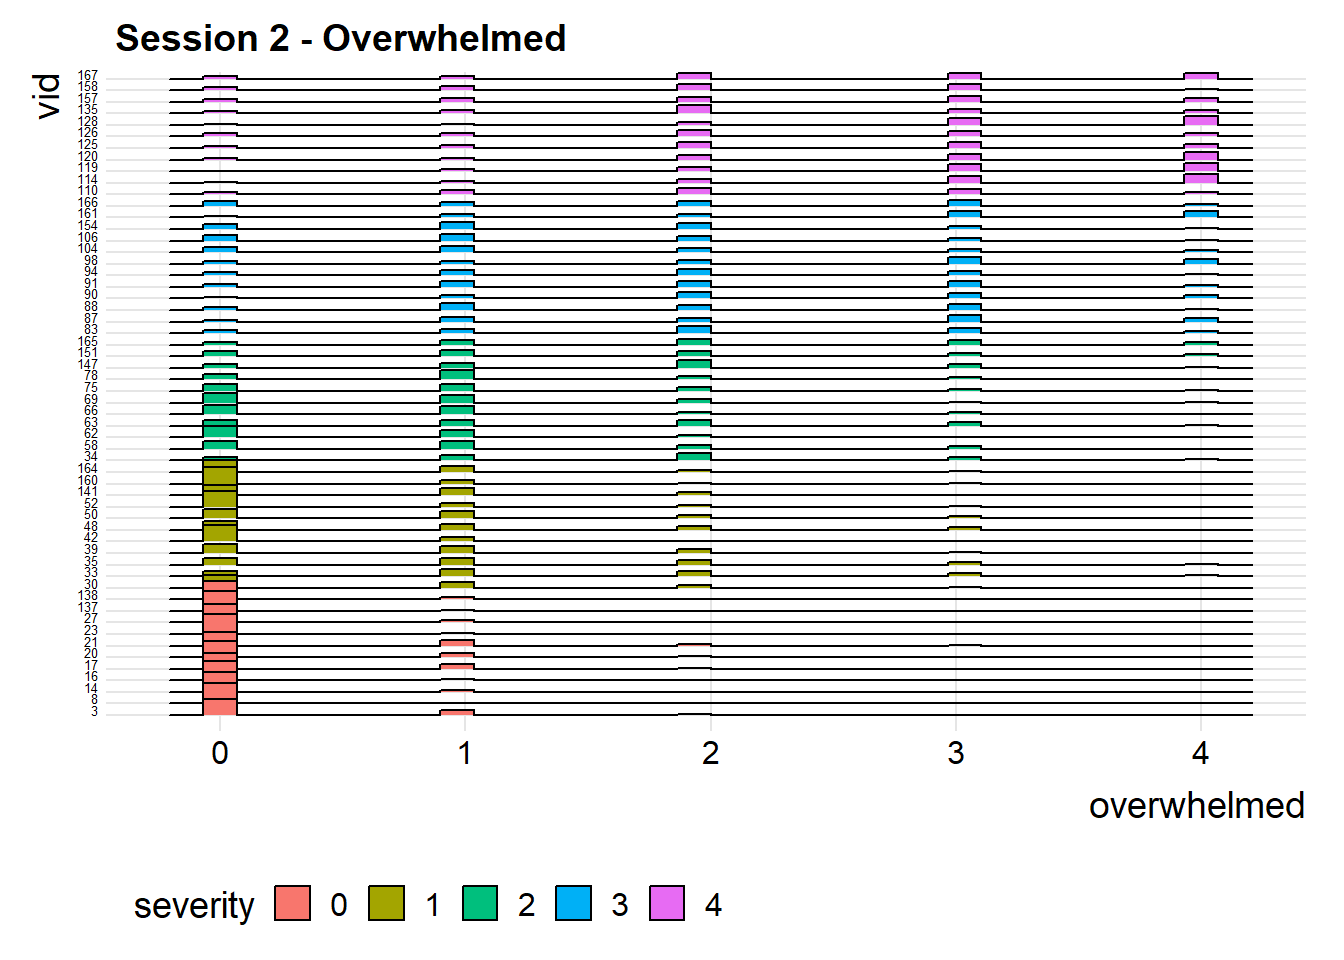
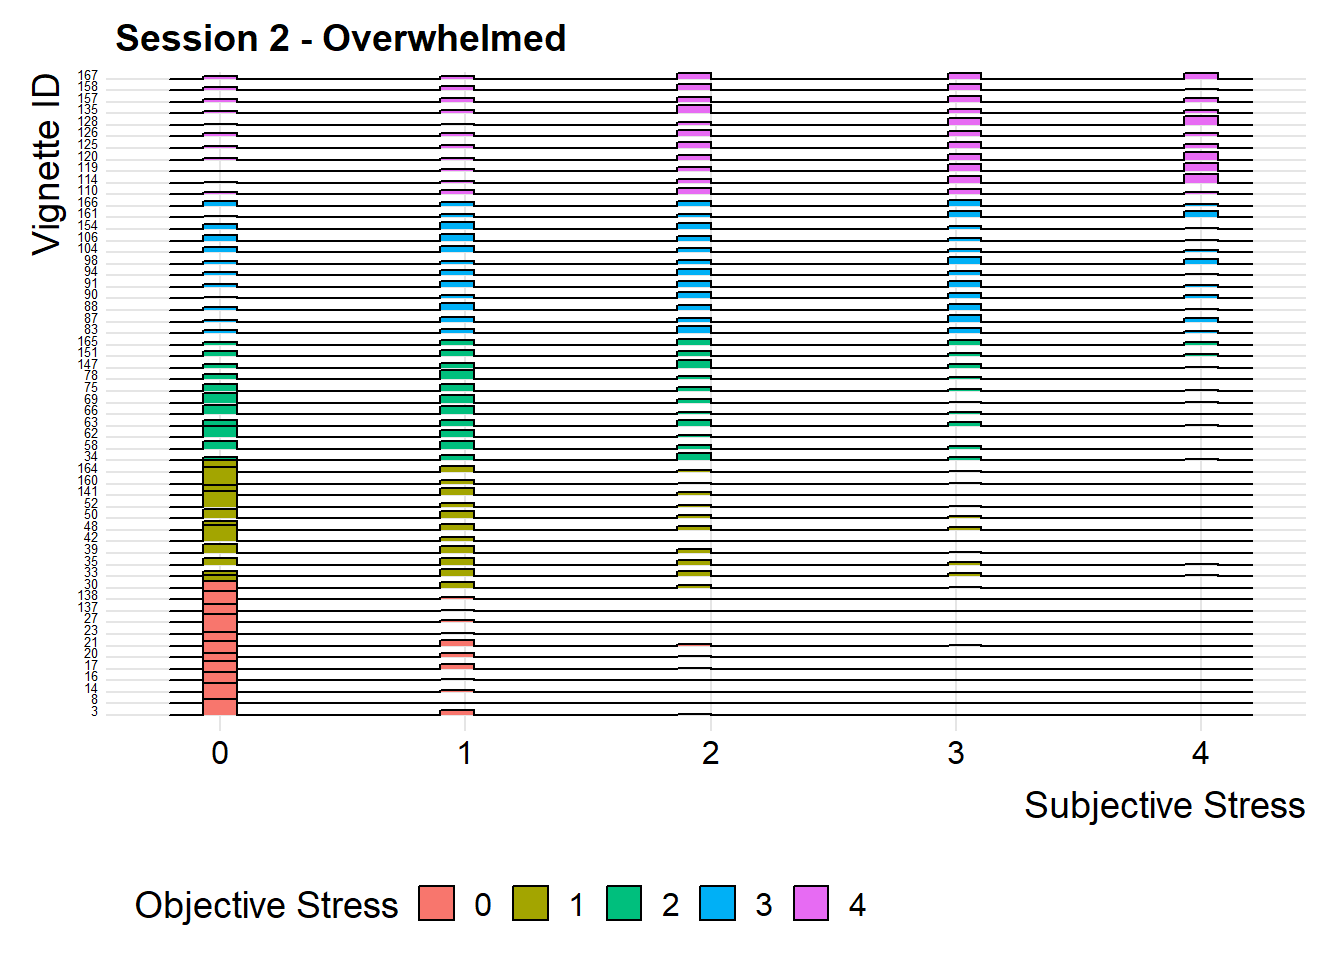
update12/17

Changed region(s): [[0.0938, 0.9062, 0.6562, 0.9688], [0.75, 0.8125, 0.9688, 0.875], [0.0, 0.0625, 0.0625, 0.25]]

diff --git a/docs/results.html b/docs/results.html
@@ -79,7 +79,8 @@
 <li class="chapter" data-level="5.1" data-path="results.html"><a href="results.html#examination-on-objective-coder-ratings"><i class="fa fa-check"></i><b>5.1</b> Examination on Objective Coder Ratings</a></li>
 <li class="chapter" data-level="5.2" data-path="results.html"><a href="results.html#stress-levels-on-different-objective-coder-ratings-severity-levels"><i class="fa fa-check"></i><b>5.2</b> Stress Levels on Different Objective Coder Ratings (Severity Levels)</a></li>
 <li class="chapter" data-level="5.3" data-path="results.html"><a href="results.html#exploration-on-individual-factors"><i class="fa fa-check"></i><b>5.3</b> Exploration on Individual Factors</a></li>
-<li class="chapter" data-level="5.4" data-path="results.html"><a href="results.html#potential-vignettes-outliers"><i class="fa fa-check"></i><b>5.4</b> Potential Vignettes Outliers</a></li>
+<li class="chapter" data-level="5.4" data-path="results.html"><a href="results.html#investigation-on-the-relationship-between-number-of-siblings-and-subjective-stress"><i class="fa fa-check"></i><b>5.4</b> Investigation on the relationship between Number of Siblings and Subjective Stress</a></li>
+<li class="chapter" data-level="5.5" data-path="results.html"><a href="results.html#potential-vignettes-outliers"><i class="fa fa-check"></i><b>5.5</b> Potential Vignettes Outliers</a></li>
 </ul></li>
 <li class="chapter" data-level="6" data-path="interactive-component.html"><a href="interactive-component.html"><i class="fa fa-check"></i><b>6</b> Interactive component</a></li>
 <li class="chapter" data-level="7" data-path="conclusion.html"><a href="conclusion.html"><i class="fa fa-check"></i><b>7</b> Conclusion</a></li>
@@ -109,32 +110,39 @@
 <p>One major question of interest in this study was whether participant’s self-reports of how stressed they would be in each scenario corresponds with objective coder ratings of the severity of those scenarios, as coded by the Daily Inventory of Stressful Events (DISE) scheme (Midus, 1994). A priori, we expected that participant ratings of the stressfulness of the events would correspond with the objective coders’ ratings of the severity of the events. Both the subjective responses and the objective codes ranged from 0=not at all to 4=extremely.</p>
 <p>We were also interested in investing whether variance in subjective reports depended on the objective codes; for example, whether scenarios in the 2-3 range in objective severity were more variable while those in the high and low ranges of severity exhibited less variability. To explore these ideas, we build six histogram-style ridge plots, three for each session (session 1 or session 2 of the study) and one for each measure of stress (how ‘stressed’ did you feel? how ‘overwhelmed’ did you feel? and an aggregate score that is the mean of how ‘stressed’ and ‘overwhelmed’ participants felt).</p>
 <p>In the plots below, the x-axis is subjective ratings of stressed, overwhelmed, and the aggregate and the y-axis is the ID number for the vignettes. The y-axis is ordered such that vignettes at the top are the most objectively severe scenarios (4=extremely stressful) and decrease down the axis to the bottom, which contains vignettes rated as least objectively severe (0=not at all stressful). The objective severity of the scenarios is also color-coded, as depicted in a legend to the right of the plots.</p>
-<p><img src="finalproj_files/figure-html/unnamed-chunk-25-1.png" width="672" /><img src="finalproj_files/figure-html/unnamed-chunk-25-2.png" width="672" /><img src="finalproj_files/figure-html/unnamed-chunk-25-3.png" width="672" /><img src="finalproj_files/figure-html/unnamed-chunk-25-4.png" width="672" /><img src="finalproj_files/figure-html/unnamed-chunk-25-5.png" width="672" /><img src="finalproj_files/figure-html/unnamed-chunk-25-6.png" width="672" /></p>
-<p>We have several key takeaways from these visualizations. All discussion refers to all three ways of operationalizing stress: how ‘stressed’, how ‘overwhelmed’, and the aggregate of ‘stressed’ and ‘overwhelmed’ that paticipants reported.</p>
+<p><img src="finalproj_files/figure-html/unnamed-chunk-13-1.png" width="672" /><img src="finalproj_files/figure-html/unnamed-chunk-13-2.png" width="672" /><img src="finalproj_files/figure-html/unnamed-chunk-13-3.png" width="672" /><img src="finalproj_files/figure-html/unnamed-chunk-13-4.png" width="672" /><img src="finalproj_files/figure-html/unnamed-chunk-13-5.png" width="672" /><img src="finalproj_files/figure-html/unnamed-chunk-13-6.png" width="672" /></p>
+<p>We have several key takeaways from these visualizations. All discussion refers to all three ways of operationalizing stress: how ‘stressed’, how ‘overwhelmed’, and the aggregate of ‘stressed’ and ‘overwhelmed’ that participants reported.</p>
 <p>First, we see that participants generally report that they would be less stressed than expected by the objective coding scheme; many participants rate scenarios that are objectively a ‘1’ as a ‘0’, those that are objectively a ‘2’ as a ‘1’, and so on. However, the under-reporting is most severe for the low-range objective stressors (the 1’s and 2’s). At the same time, we do see the expected general increase in mean subjective ratings of stress across the objective range, with more objectively severe stressors being rated as more subjectively stressors.</p>
 <p>Next, we observe less variability in the high and low ranges of the scale, particularly in the ‘0’ range. This implies that participants generally perceive very non-severe and very severe stressors as consensually stressful (i.e. little disagreement about the stressfulness of these scenarios), while subjective interpretation and therefore variability emerges in the ‘2’ and ‘3’ range of the objective scale. We think this visualization does a nice job of laying out the correspondence between objetive coding of the stressors and subjective interpretations of them.</p>
 </div>
 <div id="stress-levels-on-different-objective-coder-ratings-severity-levels" class="section level2" number="5.2">
 <h2><span class="header-section-number">5.2</span> Stress Levels on Different Objective Coder Ratings (Severity Levels)</h2>
-<p>The vignettes are designed with different severity. The termiology “severity” means how sever the potential consequence resulted from the conditions described in the vignettes may be.The severity is leveled into 4 levels, where 0 indicates the least severe and 4 stands for the most severe. Also, the vignettes are designed with different contents that are categorized into 7 categories: <em>Discrimination</em>,<em>Finances</em>,<em>Health/Accident</em>, <em>Home</em>, <em>Interpersonal Tension</em>, <em>Misc</em>, <em>Work/Education</em>. We want to see how people react under different “Severity” and different contents.</p>
-<ol style="list-style-type: decimal">
-<li><p>Reaction v.s. Severity
-From mosaic plot, we can see higher severity contributes more to the higher score, that is, the vignette with higher severity yield more high scores in proportion. From the bar plot, we can see an approximate “V” shape. With lower severity(1-3), the counts of scores is in an approximate descending order(score 0 counts most, score 4 counts least). With higher severity(3-4), the counts of scores is in an approximate ascending order(score 0 counts least, score 4 counts most). The bar plot can explain the proportion pattern presents in the mosaic plot consistently.
-<img src="finalproj_files/figure-html/unnamed-chunk-27-1.png" width="672" /><img src="finalproj_files/figure-html/unnamed-chunk-27-2.png" width="672" /></p></li>
-<li><p>Reaction v.s. Content
-The mosaic plots show clearly that the higher score it is, the “Discrimination” and “Finance” contributes more. In other words, the vignettes with contents related to discrimination and finance yield more high scores in proportion. From bar plots, under contents Health/Accident, Home, Interpersonal Tension, Misc, and Work/Education, the counts of the score presents an approximate descending order(score 0 counts most, score 4 counts last). However, for contents Discrimination and Finance, the counts of score is relatively even or in an ascending order, that is the reason why this two contents contribute more in higher score. Another pattern we can find from mosaic plot is that the contribution of Health/Accident across the score basically stays same.</p></li>
-</ol>
-<p><img src="finalproj_files/figure-html/unnamed-chunk-28-1.png" width="672" /><img src="finalproj_files/figure-html/unnamed-chunk-28-2.png" width="672" /></p>
+<p>The vignettes are designed with different objective code ratings. The terminology “Objective Stress” represents how severe the potential consequence resulted from the conditions described in the vignettes may be.The Objective Stress is leveled into 4 levels, where 0 indicates the least severity and 4 stands for the most severity. Also, the vignettes are designed with different contents that are categorized into 7 categories: <em>Discrimination</em>,<em>Finances</em>,<em>Health/Accident</em>, <em>Home</em>, <em>Interpersonal Tension</em>, <em>Misc</em>, <em>Work/Education</em>. We want to see how people react with different contents in different level of Objective Stress.</p>
+<p><img src="finalproj_files/figure-html/unnamed-chunk-15-1.png" width="672" /><img src="finalproj_files/figure-html/unnamed-chunk-15-2.png" width="672" /></p>
+<p>The mosaic plots indicated that within the <em>Discrimination</em> and <em>Finance</em> categories, there are larger percentage of people with high level of stress. From the bar plot, under contents <em>Health/Accident</em>, <em>Home</em>, <em>Interpersonal Tension</em>, <em>Misc</em>, and <em>Work/Education</em>, the counts of the score presents an approximate descending order(score 0 counts most, score 4 counts last). However, for contents <em>Discrimination</em> and <em>Finance</em>, the counts of score is relatively even or in an ascending order, that is the reason why we can conclude that there are larger percentage of people with high level of stress within the <em>Discrimination</em> and <em>Finance</em> categories.</p>
 </div>
 <div id="exploration-on-individual-factors" class="section level2" number="5.3">
 <h2><span class="header-section-number">5.3</span> Exploration on Individual Factors</h2>
-<p>We also would like to see how people’s baseline condition may have impacts on people’s reaction to stress. We have <em>sex assignment</em>, <em>household income</em>, <em>loneliness</em>, <em>relationship with a people’s close ones</em> these four factors seleted. <em>sex assignment</em> is simply clustered as “Male” and “Female”. Other three factors are seperated in 3 levels respectively. By doing parallel coordinate graph, our goal is to see if clustering patterns exist for each factor. The parallel columns state for each vignette, ordered from most severe to least severe(left are those stressful conditions that may lead to the most severe consequence, and right are those that may lead to the least severe consequence). For each people’s score, we averaged the scores from stressed level and overwhelmed level, then took the average of records from 2 sessions. From graphs below, the only clustering pattern we can see is from <em>sex assignment</em>. It shows that males are more likely to state that they are good at dealing with those conditions with higher severity.And overally, females present to be more stressed then males. Other three fatcors present no evident impact on people’s reaction.</p>
-<p><img src="finalproj_files/figure-html/unnamed-chunk-29-1.png" width="672" /><img src="finalproj_files/figure-html/unnamed-chunk-29-2.png" width="672" /><img src="finalproj_files/figure-html/unnamed-chunk-29-3.png" width="672" /><img src="finalproj_files/figure-html/unnamed-chunk-29-4.png" width="672" /></p>
+<p>We also would like to see how people’s baseline condition may have impacts on people’s reaction to stress. We have <em>sex assignment</em>, <em>household income</em>, <em>loneliness</em>, <em>relationship with a people’s close ones</em> these four factors selected. <em>sex assignment</em> is simply clustered as “Male” and “Female”. Other three factors are separated in 3 levels respectively. By doing parallel coordinate graph, our goal is to see if clustering patterns exist for each factor. The parallel columns state for each vignette, ordered from most severe to least severe(left are those stressful conditions that may lead to the most severe consequence, and right are those that may lead to the least severe consequence). For each people’s score, we averaged the scores from stressed level and overwhelmed level, then took the average of records from 2 sessions. From graphs below, the only clustering pattern we can see is from <em>sex assignment</em>. It shows that males are more likely to state that they are good at dealing with those conditions with higher severity.And overall, females present to be more stressed then males. Other three factors present no evident impact on people’s reaction.</p>
+<p><img src="finalproj_files/figure-html/unnamed-chunk-16-1.png" width="672" /><img src="finalproj_files/figure-html/unnamed-chunk-16-2.png" width="672" /><img src="finalproj_files/figure-html/unnamed-chunk-16-3.png" width="672" /><img src="finalproj_files/figure-html/unnamed-chunk-16-4.png" width="672" /></p>
 </div>
-<div id="potential-vignettes-outliers" class="section level2" number="5.4">
-<h2><span class="header-section-number">5.4</span> Potential Vignettes Outliers</h2>
+<div id="investigation-on-the-relationship-between-number-of-siblings-and-subjective-stress" class="section level2" number="5.4">
+<h2><span class="header-section-number">5.4</span> Investigation on the relationship between Number of Siblings and Subjective Stress</h2>
+<p>To dive deep into what may cause the different levels of subjective stress, we decided to take a look at how the number of siblings may affect students’ stress levels in different life categories. Since we have less than five percent of people with 4 or more siblings, we decided to conclude the data based on four categories, each with “0”, “1”,“2”,“3+” siblings.</p>
+<p><img src="finalproj_files/figure-html/unnamed-chunk-17-1.png" width="672" /></p>
+<p>Based on our graph, we could a few really interesting foundings:</p>
+<ol style="list-style-type: decimal">
+<li><p>Overall, we could observe a slight drop of stress level from Session 1 to Session 2, which may be caused by the time periods when the surveys were conducted. We also see an overall trend, where there is an increase of subjective stress when the the number of siblings increases from “1” to “2”, and then an relatively bigger decline of subjective stress for students with 3+ siblings, especially on categories such that <em>Discrimination</em> and <em>Interpersonal Tension</em>. We suspect the reason behind this trend may be that students with more siblings receive less expectations from their parents, and they receive more love , support and care from all of their family members, where do not need to worry about finding new friends and they are more comfortable with themselves and less conscious of their beings.</p></li>
+<li><p>For scenarios with <em>Discrimination</em> problems, when number of siblings increase to 3 and more, we can see an apparent tendency that people start to feel less stress. We suspect that it may cause by the shared consciousness and understanding we own with more siblings.</p></li>
+<li><p>For scenarios with <em>Interpersonal Tension</em> problem, we can see an extreme decline in the level of subjective stress when the number of siblings is more than 3. We suspect that this is due to the fact that students with more siblings may know better on how to communicate and negotiate with their friends since they have had their “practice” with their siblings, so they feel less stressed about it.</p></li>
+<li><p>For scenarios with <em>Finances</em> problems, we thought there will be large increase of stress level for people have more siblings due to more family burden. However, there is actually a drop of stress level, especially for session 2.</p></li>
+<li><p>For scenarios with <em>Health/Accident</em> problems, we can see a clear decrease of stress level for both sessions when people have more siblings. We suspect that maybe this is because when you have more siblings, there will be more people care about your health problems and help you overcome any accidents, thus making people feel less stress.</p></li>
+</ol>
+</div>
+<div id="potential-vignettes-outliers" class="section level2" number="5.5">
+<h2><span class="header-section-number">5.5</span> Potential Vignettes Outliers</h2>
 <p>We were also interested in visualizing the distribution of responses to the two questions asked for each scenario: ‘have you experienced something like this before?’ (1=yes) and ‘was it easy to imagine yourself in this scenario?’ (1=yes). We therefore calculated the proportion of participants who responded yes to each question and visualized a box and whisker plot of those proportions. We chose box and whisker plots because we are interested in finding outliers; in the next iteration of the study we will likely exclude scenarios that were extreme in terms of describing events that the sample hadn’t experienced and being difficult to imagine oneself in the scenario.
-<img src="finalproj_files/figure-html/unnamed-chunk-30-1.png" width="672" /><img src="finalproj_files/figure-html/unnamed-chunk-30-2.png" width="672" /></p>
+<img src="finalproj_files/figure-html/unnamed-chunk-18-1.png" width="672" /><img src="finalproj_files/figure-html/unnamed-chunk-18-2.png" width="672" /></p>
 <p>These visualizations reveal several important things about the study. First, participants generally indicated that it was easy to imagine themselves in the scenarios (means for both session were above 90%), even though they hadn’t necessarily been in situations exactly like them before (means for both sessions around 45%-50%). However, there were a few scenarios that participants found difficult to imagine: scenarios 165 and 48. In the next iteration of the study, we will likely remove these scenarios and replace them with situations that are more commonly experienced by undergraduate students.</p>
 
 </div>
